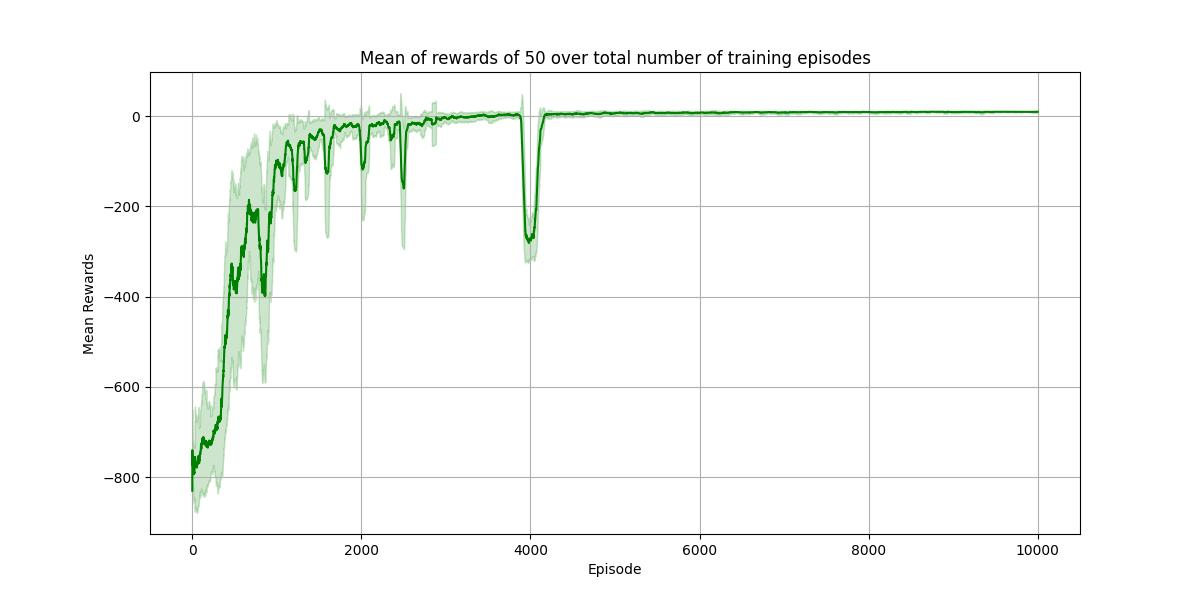
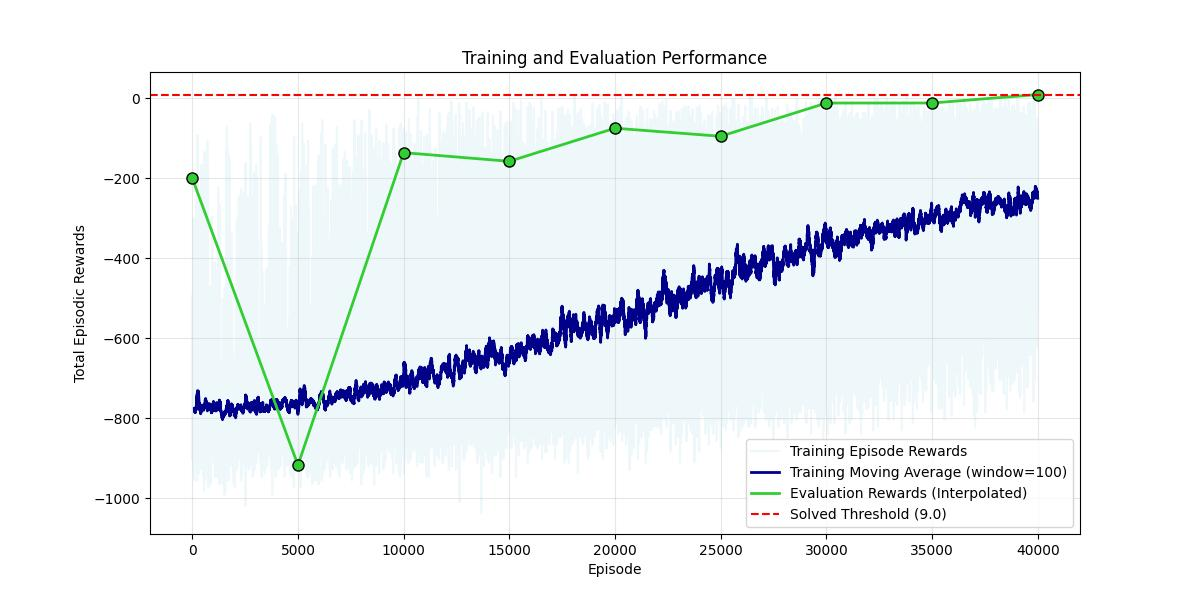
Re-organizing Monte-Carlo

diff --git a/Lesson-2/MonteCarlo/train.py b/Lesson-2/MonteCarlo/train.py
@@ -1,86 +1,109 @@
-import numpy as np
-import gymnasium as gym
-from monte_carlo import MCLearning
-import matplotlib.pyplot as plt
-from collections import deque
+import argparse
 import os
 import sys
-sys.path.append(os.path.abspath(os.path.join(os.path.dirname(__file__), '../../')))
-from utils.plot_utils import get_figure
-from tqdm import tqdm
 
-# ---------- ENV CONFIG ----------
-env_id = "Taxi-v3"
-env = gym.make(env_id)
-action_space = range(env.action_space.n)
+import matplotlib.pyplot as plt
+from config.MC_CONFIG import MC_CONFIG
+from core.agent import MCAgent  # noqa: E402
+from rich import print as pprint
+from rich.console import Console
 
-# ---------- HYPERPARAMETERS ----------
-gamma = 0.9                            # Discount factor
-initial_epsilon = 1.0                  # Start with full exploration
-min_epsilon = 0.01                     # 1% chance of picking a random action
-epsilon_decay_factor = 0.9995          # Epsilone is decayed by this factor every episode
-alpha = 0.05                           # Learning rate / scale of moving average
-num_episodes = 10000                   # Total number of episodes to play and train
-mean_epsisodes = 50                    # Calculate mean reward for that many episodes, for performance tracking
-seed = 224                             # Seed for reproducibility of results
+current_path = os.path.dirname(__file__)
+parent_path = os.path.join(current_path, "../../")
+sys.path.append(os.path.abspath(parent_path))
 
-# ---------- AGENT INITIALIZATION ----------
-agent_mc = MCLearning(alpha, gamma, initial_epsilon, action_space)
 
-# ---------- METRICS ----------
-rewards = deque(maxlen=mean_epsisodes)
-mean_rewards = []
-std_rewards = []
-pbar = tqdm(range(num_episodes), desc="Training", postfix={"mean_reward": "N/A"})
+from common.utils.config_utils import get_env_config  # noqa: E402
 
-# ---------- TRAIN LOOP ----------
-for e in pbar:
-    # Initialize an empty list to store the history of (state, action, reward) tuples
-    state_history = [] 
-    # Reset the environment
-    state, info = env.reset(seed=seed) 
-    done = False
-    total_reward_episode = 0 
 
-    # Play one full episode til termination and gather data
-    while not done:
-        # Epsilon-greedy strategy for action picking
-        action = agent_mc.get_action(state)
-        # Apply the action to the env
-        next_state, reward, terminated, truncated, _ = env.step(action)
-        done = terminated or truncated
-        # Store the currect tuple in the history
-        state_history.append((state, action, reward))
-        # Transit
-        state = next_state
-        total_reward_episode += reward
-    
-    # Calculate the metrics
-    rewards.append(total_reward_episode)
-    mean_rewards.append(np.mean(rewards))
-    std_rewards.append(np.std(rewards))
-    
-    # Decay epsilon
-    agent_mc.epsilon = max(min_epsilon, agent_mc.epsilon * epsilon_decay_factor)
+def parse_args():
+    parser = argparse.ArgumentParser(description="Train a MC agent.")
+    parser.add_argument(
+        "--env",
+        type=str,
+        default="taxi",
+        help="Name of the environment to train on.",
+    )
+    parser.add_argument("--seed", type=int, default=224)
 
-    postfix = {"mean_reward": f"{np.mean(rewards):.2f}", "eps": f"{agent_mc.epsilon:.3f}"}
-    pbar.set_postfix(postfix)
+    args = parser.parse_args()
+    return args
 
-    # First-Visit MC Update: Update only once per state, action visit
-    visited_sa_pairs_in_episode = set()
-    total_return_g = 0 
-    # Calculate the return from the state_history (in reverse)
-    for state_hist, action_hist, reward_hist in state_history[::-1]:
-        total_return_g = reward_hist + gamma * total_return_g
-        if (state_hist, action_hist) not in visited_sa_pairs_in_episode:
-            agent_mc.learn(state_hist, action_hist, total_return_g)
-            visited_sa_pairs_in_episode.add((state_hist, action_hist))
 
-save_path = f"results/{env_id}"
-os.makedirs(save_path, exist_ok=True)
+def main(args):
 
-fig = get_figure(mean_rewards, std_rewards, num_episodes=mean_epsisodes)
-fig.savefig(f"{save_path}/rewards.jpg")
-plt.show()
-env.close()
-pbar.close()
+    # --- Parse args  ---
+    env_name = args.env
+    seed = args.seed
+
+    # Get the config for that specific env
+    env_config = get_env_config(env_name=env_name, include_atari=False)
+    env_id = env_config["env_id"]
+
+    # --- Parse hyperparameters ---
+    config = MC_CONFIG
+    # Total number of episodes to train
+    num_episodes = int(config.get("num_episodes", 1000))
+    # Discount rate
+    gamma = config.get("gamma", 0.99)
+    # Moving average coefficient, or learning rate
+    alpha = config.get("alpha", 0.7)
+    # Starting epsilon
+    start_epsilon = config.get("start_epsilon", 1.0)
+    # Finishing epsilon
+    min_epsilon = config.get("min_epsilon", 0.1)
+    # Number of episodes to decay epsilon from start to min
+    decay_episodes = int(config.get("decay_episodes", 100000))
+    # Number of bins for continuous state spaces
+    num_bins = config.get("num_bins", 100)
+    # Evaluation period
+    evaluation_period = config.get("evaluation_period", 200)
+    # Evaluation episodes
+    evaluation_episodes = config.get("evaluation_episodes", 100)
+    # Add seed as hyperparam to config
+    config["seed"] = seed
+    # A reward after which the env is considered solved
+    solved_threshold = env_config["solved_reward"]
+
+    # --- Create the agent ---
+    agent = MCAgent(
+        env_id=env_id,
+        solved_threshold=solved_threshold,
+        alpha=alpha,
+        gamma=gamma,
+        start_epsilon=start_epsilon,
+        min_epsilon=min_epsilon,
+        decay_episodes=decay_episodes,
+        num_bins=num_bins,
+        evaluation_period=evaluation_period,
+        evaluation_episodes=evaluation_episodes,
+    )
+
+    # 1. Create a directory for future results
+    save_path = f"results/{env_id}"
+    os.makedirs(save_path, exist_ok=True)
+
+    console = Console()
+    title = f":rocket: :rocket: :rocket: [bold red] Training {env_id} with Monte-Carlo [/bold red] \
+              :rocket: :rocket: :rocket:"
+    console.print(title, justify="center")
+
+    # 2. Train the agent
+    try:
+        # Start training
+        agent.train(
+            num_episodes=num_episodes,
+        )
+        pprint("Training completed successfully. Displaying final plot.")
+        _ = agent.get_figure()
+        plt.show()
+    except KeyboardInterrupt:
+        print("\nTraining interrupted by user (Ctrl+C).")
+    finally:
+        # This will be executed no matter what
+        agent.save_progress(save_path=save_path, config=config)
+
+
+if __name__ == "__main__":
+    args = parse_args()
+    main(args)

diff --git a/Lesson-2/MonteCarlo/core/agent.py b/Lesson-2/MonteCarlo/core/agent.py
@@ -1,0 +1,130 @@
+import os
+import sys
+from typing import List, Optional
+
+import numpy as np
+from tqdm import tqdm
+
+current_path = os.path.dirname(__file__)
+parent_path = os.path.join(current_path, "../../")
+sys.path.append(os.path.abspath(parent_path))
+
+from common.BaseTD import TDLearningAgent  # noqa: E402
+
+
+class MCAgent(TDLearningAgent):
+
+    def __init__(
+        self,
+        env_id: str,
+        solved_threshold: float,
+        alpha: float = 0.1,
+        gamma: float = 0.9,
+        start_epsilon: float = 1.0,
+        min_epsilon: float = 0.1,
+        decay_episodes: int = 100000,
+        num_bins: int = 100,
+        evaluation_period: int = 100,
+        evaluation_episodes: int = 50,
+    ):
+        super().__init__(
+            env_id,
+            solved_threshold,
+            alpha,
+            gamma,
+            start_epsilon,
+            min_epsilon,
+            decay_episodes,
+            num_bins,
+            evaluation_period,
+            evaluation_episodes,
+        )
+
+    def learn(self, history: List):
+        """
+        Function to update our estimation of Q-values which is basically a return.
+        Use a moving average to smoothly update the estimate
+        """
+        # First-Visit MC Update:
+        # Update only once per (state, action) visit
+        visited_pairs = set()
+        # Total return of the episode: G
+        g = 0
+        # Calculate the return from the state_history in reverse
+        for state, action, reward in history[::-1]:
+            g = reward + self.gamma * g
+            if (state, action) not in visited_pairs:
+                current_q = self.getQ(state, action)
+                updated_q = current_q + self.alpha * (g - current_q)
+                self.setQ(state, action, updated_q)
+                visited_pairs.add((state, action))
+
+    def play_one_episode(self, epsilon: Optional[float] = None):
+        """
+        Play a complete episode in the environment using the current policy.
+        """
+        # Get initial state, note no seed is needed as it was seeded in the base class
+        state, _ = self.env.reset()
+        # Initialize an empty list to store the history of (state, action, reward) tuples
+        history = []
+        # A flag whether the episode has finished
+        done = False
+        # Variable to track the total episode's reward
+        total_reward = 0
+
+        # Loop while it is still not done
+        while not done:
+            # Use discrete version of a state if continuos space
+            state = self._discretize_state(state)
+            # Get action from our policy
+            action = self.choose_action(state=state, epsilon=epsilon)
+            # Apply our action and receive the feedback
+            next_state, reward, terminated, truncated, _ = self.env.step(action)
+            # Was the step terminal?
+            done = terminated or truncated
+
+            history.append((state, action, reward))
+            # Transit to the next observation
+            # Note next_state is continuos (if is_continuos)
+            # So, state will be also continuous
+            state = next_state
+            # Sum total reward
+            total_reward += reward
+        return history, total_reward
+
+    def train(self, num_episodes: int):
+        """ """
+
+        pbar = tqdm(range(num_episodes), desc="Training", postfix={"mean_reward": 0})
+        mean_eval_reward = 0
+        for e in pbar:
+            # Play one episode and get the recorded data
+            history, total_reward = self.play_one_episode()
+
+            # Decay epsilon to play more greedily
+            self.decay_epsilon()
+
+            # Append to the external list total reward
+            self.train_rewards.append(total_reward)
+            mean_train_reward = np.mean(self.train_rewards[-100:])
+
+            # Learn from that episode
+            self.learn(history)
+
+            # Evaluate the agent with pure greedy approach
+            if e % self.evaluation_period == 0:
+                eval_rewards = []
+                for _ in range(self.evaluation_episodes):
+                    _, total_reward = self.play_one_episode(epsilon=0.0)
+                    eval_rewards.append(total_reward)
+                mean_eval_reward = np.mean(eval_rewards)
+                self.val_rewards.append(mean_eval_reward)
+
+            pbar.set_postfix_str(
+                f"Epsilon: {self.epsilon:.3f} | Train: {mean_train_reward:.2f} | Eval: {mean_eval_reward:.2f}"
+            )
+            # Check for early termination
+            if mean_eval_reward > self.solved_threshold:
+                pbar.close()
+                print(f"Terminated after {e+1} steps with mean reward {mean_eval_reward:.2f}")
+                break

diff --git a/Lesson-2/MonteCarlo/config/MC_CONFIG.py b/Lesson-2/MonteCarlo/config/MC_CONFIG.py
@@ -1,0 +1,14 @@
+MC_CONFIG = {
+    "gamma": 0.99,
+    "alpha": 0.01,
+    "num_episodes": 5e5,
+    "start_epsilon": 1.0,
+    # Monte-Carlo needs long exploration
+    # to fight variance
+    "min_epsilon": 0.1,
+    # Number of episodes to decay from start_epsilon to min_epsilon
+    "decay_episodes": 4e5,
+    "num_bins": 200,
+    "evaluation_period": 5000,
+    "evaluation_episodes": 10,
+}
